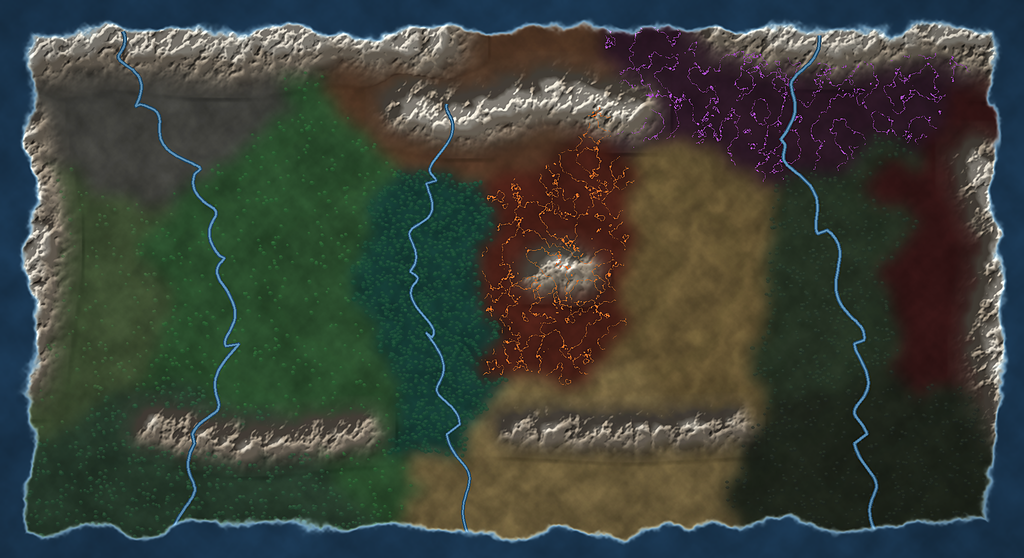
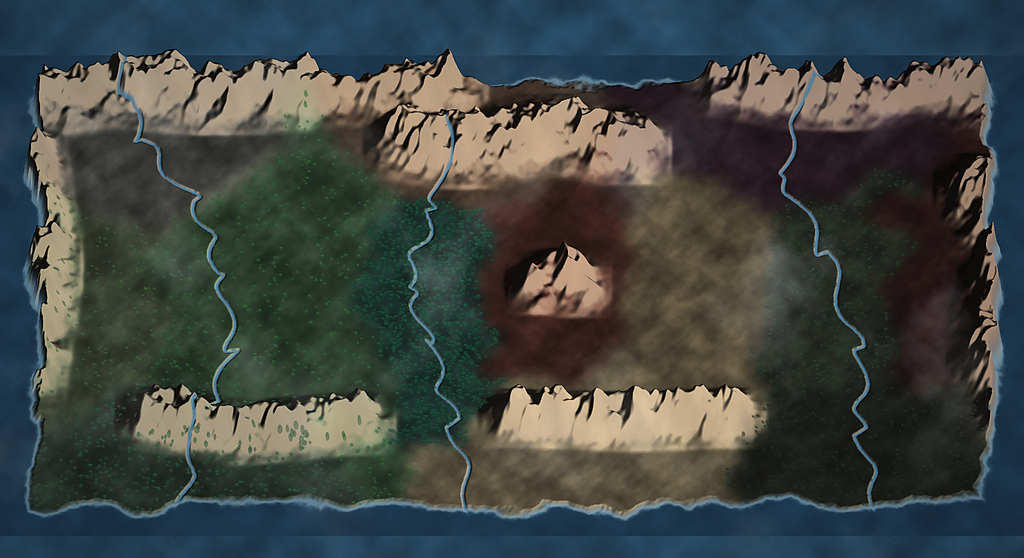
마력숲: 전체지도 기울인 입체 지형(독립 산맥 솟음)
Claude-Session: https://claude.ai/code/session_012UBHYV5VTXizN9awrTGnEM

diff --git a/tools/world-map-gen.py b/tools/world-map-gen.py
@@ -62,20 +62,7 @@ ridge([(2250,-80),(2400,-130),(2550,-60)],28,1.25,16,.5)                        
 ridge([(-1100,1250),(-300,1400),(700,1300)],28,.8,17)                                      # 남부 구릉
 ridge([(2000,1250),(3000,1300),(3900,1250)],26,.8,18)                                     # 사막 남쪽 바위능선
 hgt=np.clip(gaussian_filter(hgt,1.4),0,1.4)
-# hillshade (빛: 북서쪽)
-gyv,gxv=np.gradient(hgt*38)
-shade=np.clip(.5+(-gxv-gyv)*1.9,0,1.25)
-mt=np.clip(hgt*2.4,0,1)
-rock=np.array([128,118,104])
-rockc=rock[None,None,:]*(0.55+0.75*shade)[...,None]
-hi=np.clip((hgt-.62)*4,0,1)[...,None]   # 높은 곳은 연회색 바위(눈 없음)
-rockc=rockc*(1-hi)+np.array([190,184,172])*(0.7+0.5*shade)[...,None]*hi
-col=col*(1-mt[...,None])+rockc*mt[...,None]
-# 산 그림자(남동쪽으로 길게)
-sh=np.roll(np.roll(hgt,6,axis=1),8,axis=0)
-cast=np.clip((sh-hgt)*3.5,0,.45)
-col*= (1-cast)[...,None]*np.ones(3)
-# ---- 숲 질감(세계수·초원·습원): 어두운 점
+
 def stipple(mask,dens,color,size,seed):
     global col
     r=np.random.default_rng(seed)
@@ -84,55 +71,87 @@ def stipple(mask,dens,color,size,seed):
     ys,xs=np.nonzero(mask)
     for i in r.choice(len(ys),min(n,len(ys)),replace=False):
         x,y=xs[i],ys[i]
-        if hgt[y,x]>.25: continue
+        if Hh[y,x]>.62: continue
         s=size*(0.7+0.6*r.random())
         d.ellipse([x-s,y-s*.8,x+s,y+s*.8],fill=color+(110,))
         d.ellipse([x-s*.6-1,y-s*.9,x+s*.4,y-s*.1],fill=(color[0]+30,color[1]+34,color[2]+20,70))
     col=np.array(im).astype(float)
+
+# ===== Skyrim식: 기복 있는 실제 높이 + 기울인 시점 =====
+zm=lambda n:gaussian_filter((zid==names[n]).astype(float),20)
 names={v[0]:k for k,v in cols.items()}
-stipple(zid==names['worldtree'],.012,(22,70,52),4.2,21)
-stipple(zid==names['meadow'],.0016,(40,100,52),3.4,22)
-stipple(zid==names['wetland'],.004,(40,84,58),3.6,23)
-stipple(zid==names['windcliff'],.0014,(60,100,60),3.2,24)
-stipple(zid==names['swamp'],.004,(34,50,40),3.6,25)
-stipple(zid==names['deadmarsh'],.003,(30,38,34),3.4,26)
-# 사막 모래 물결
-dune=np.sin((xx*.05+yy*.03)+noise(60,5)*14)*.5+.5
-dm=(gaussian_filter((zid==names['desert']).astype(float),6)+gaussian_filter((zid==names['oasis']).astype(float),6))[...,None]
-col=col*(1-.10*dm*dune[...,None])+0*dm
-# 화산 용암 균열
-lv=gaussian_filter((zid==names['volcano']).astype(float),6)
-crack=np.abs(noise(24,31)-.5)<.012
-col[crack&(lv>.85)&(hgt<.9)]=[230,110,40]
-# 혼돈 균열 보라빛
-cm=gaussian_filter((zid==names['chaos']).astype(float),6)
-crack2=np.abs(noise(30,32)-.5)<.010
-col[crack2&(cm>.85)&(hgt<.4)]=[170,80,200]
-# ---- 강
-im=Image.fromarray(np.clip(col,0,255).astype(np.uint8)); d=ImageDraw.Draw(im)
+base=(noise(220,51)-.5)*.30+(noise(90,52)-.5)*.14
+base+=zm('highland')*.30+zm('canyon')*.12+zm('windcliff')*.10+zm('citadel')*.08
+base-=zm('desert')*.05+zm('wetland')*.08+zm('deadmarsh')*.10+zm('swamp')*.06
+edge=np.minimum.reduce([xx,W-xx,yy,H-yy])
+coast=edge-(noise(90,41)*70+26)
+landm=np.clip(coast/14,0,1)
+rg=np.clip(1-np.abs(2*noise(70,81,4)-1),0,1); rg=rg**1.3
+mmask=np.clip(gaussian_filter(hgt,3)*1.6,0,1)
+Hh=np.clip(base+.25,0,1)*.30+mmask*(.25+.75*rg)*.95
+Hh=np.nan_to_num(gaussian_filter(Hh,2.0)*landm)
+# 강: 낮은 곳을 따라 높이를 파낸다
+rv=Image.new('L',(W,H),0); rd=ImageDraw.Draw(rv)
 def river(pts,w=5):
     P=[]
     for (a,b),(c,e) in zip(pts[:-1],pts[1:]):
         for t in np.linspace(0,1,30,endpoint=False):
             P.append((wx(a+(c-a)*t)+np.sin(t*9+a)*14,wz(b+(e-b)*t)+np.cos(t*7+b)*10))
-    d.line(P,fill=(40,80,110),width=w+2,joint='curve')
-    d.line(P,fill=(92,146,184),width=max(2,w-2),joint='curve')
+    rd.line(P,fill=255,width=w,joint='curve')
 river([(-1400,-2150),(-1200,-1500),(-700,-900),(-500,-200),(-400,600),(-700,1400),(-900,2400)],6)
 river([(1500,-1500),(1300,-800),(1100,-100),(1300,500),(1500,1300),(1700,2400)],5)
 river([(4600,-2100),(4300,-1200),(4700,-400),(5000,600),(5000,1400),(5200,2400)],6)
-col=np.array(im).astype(float)
-# ---- 바다 + 해안선
-land=gaussian_filter(np.ones((H,W)),1)
-edge=np.minimum.reduce([xx,W-xx,yy,H-yy])
-coast=edge-(noise(90,41)*70+20)
-lm=np.clip(coast/6,0,1)
-sea=np.array([30,62,92])*(0.8+0.3*noise(50,42))[...,None]
-foam=np.exp(-((coast-2)/5)**2)[...,None]*np.array([170,200,210])*.55
-shore=np.exp(-((coast-14)/16)**2)[...,None]*np.array([40,40,30])*.0
-col=col*lm[...,None]+sea*(1-lm[...,None])+foam*(coast>-12)[...,None]*(1-lm[...,None]*0)
-# 비네트 + 양피지 테두리
-v=1-.22*(((xx/W-.5)**2+(yy/H-.5)**2)*2)
-col*=v[...,None]
-out=Image.fromarray(np.clip(col,0,255).astype(np.uint8)).filter(ImageFilter.UnsharpMask(2,60,3))
-out=out.resize((1024,int(1024*H/W)),Image.LANCZOS)
-out.save('/tmp/claude-0/map/world-map.png'); print(out.size)
+rm=gaussian_filter(np.array(rv).astype(float)/255,1.2)
+Hh=Hh-rm*.04
+# 색: 채도를 낮춘 스카이림 팔레트
+gray=col.mean(axis=2,keepdims=True)
+c=col*.62+gray*.38
+c*= (0.80+0.35*n1)[...,None]
+gy2,gx2=np.gradient(gaussian_filter(Hh,1.0)*55)
+sh=np.clip(.80+(-gx2-gy2)*1.6,.30,1.4)
+slope=np.clip(np.hypot(gx2,gy2)*1.4,0,1)
+rockc=np.array([92,80,66])*(0.55+0.7*np.clip(sh,0,1.2))[...,None]
+m=np.clip(slope*1.2+np.clip(Hh-.55,0,1)*1.6,0,1)[...,None]
+c=c*(1-m*.7)+rockc*m*.7
+hi=np.clip((Hh-.95)*6,0,1)[...,None]*0
+c=c*(1-hi*.8)+np.array([196,192,184])*(0.7+0.4*sh)[...,None]*hi*.55
+c*=(sh[...,None]**1.2)*1.2
+c=np.clip(c,0,255)
+col=c
+stipple(zid==names['worldtree'],.012,(20,64,48),4.0,21)
+stipple(zid==names['meadow'],.0016,(38,92,50),3.2,22)
+stipple(zid==names['wetland'],.004,(38,80,56),3.4,23)
+stipple(zid==names['windcliff'],.0014,(56,96,58),3.0,24)
+stipple(zid==names['swamp'],.004,(32,48,38),3.4,25)
+stipple(zid==names['deadmarsh'],.003,(28,36,32),3.2,26)
+c=col
+# 강 색 + 바다
+c=c*(1-rm[...,None]*.9)+np.array([86,140,176])*rm[...,None]*.9
+sea=np.array([34,66,92])*(0.8+0.3*noise(50,42))[...,None]
+foam=np.exp(-((coast-4)/6)**2)[...,None]*np.array([175,200,205])*.5
+c=c*landm[...,None]+sea*(1-landm[...,None])+foam*(1-landm[...,None])
+# ---- 기울인 투영 (z는 선형, 높이는 위로 솟음)
+TOP=.10; SPAN=.86; K=.06*H
+out=np.zeros((H,W,3)); out[:]=np.array([40,74,100])
+bgn=noise(60,61); out*= (0.8+.5*bgn)[...,None]
+gh=H
+for r in range(gh):
+    base_y=(TOP+SPAN*r/gh)*H
+    ys=(base_y-Hh[r]*K).astype(int)
+    nxt=min(gh-1,r+1); ys2=((TOP+SPAN*(r+1)/gh)*H-Hh[nxt]*K).astype(int)
+    ln=np.maximum(1,ys2-ys+1)
+    ln=np.minimum(ln,40)
+    cc=c[r]
+    for k in range(int(ln.max())):
+        sel=ln>k
+        y=np.clip(ys+k,0,H-1)
+        out[y[sel],np.arange(W)[sel]]=cc[sel]*(1-.0*k)
+# 안개/구름 + 비네트
+haze=np.clip((yy/H-.78)*3,0,1)*.0
+cl=np.clip(noise(120,71)-.55,0,1)*2.2*np.clip(1-np.abs(yy/H-.5)*1.6,0,1)
+out=out*(1-cl[...,None]*.35)+np.array([210,216,220])*cl[...,None]*.35
+v=1-.30*(((xx/W-.5)**2+(yy/H-.5)**2)*2)
+out*=v[...,None]
+img=Image.fromarray(np.clip(out,0,255).astype(np.uint8)).filter(ImageFilter.UnsharpMask(2,70,3))
+img=img.resize((1024,int(1024*H/W)),Image.LANCZOS)
+img.save('/tmp/claude-0/map/world-map2.png');print(img.size)
